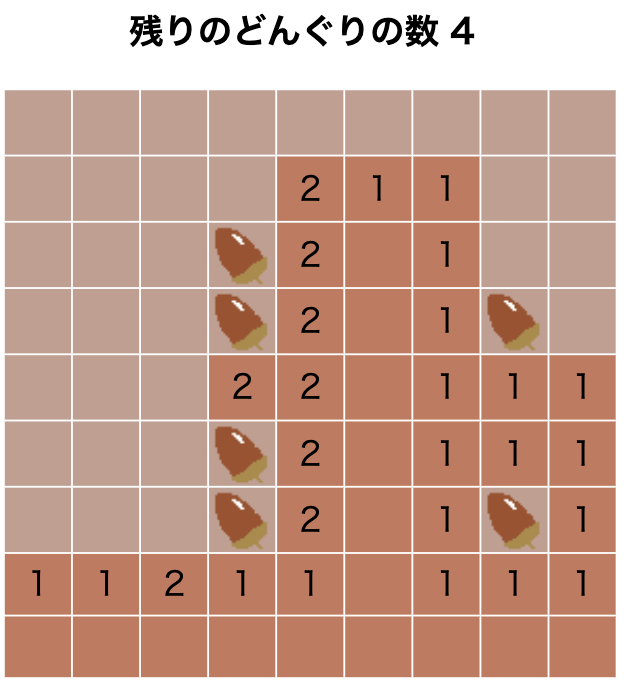
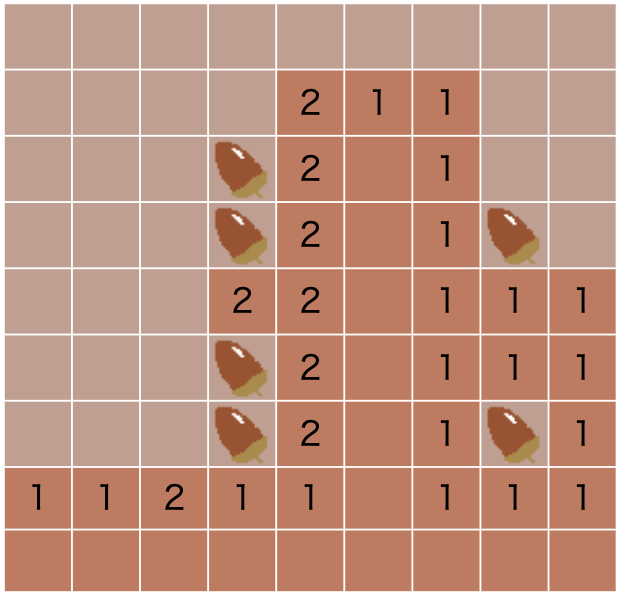
topページ画像の修正

diff --git a/db/seeds.rb b/db/seeds.rb
@@ -10,4 +10,4 @@ Game.create(display_name: 'まるばつゲーム', game_name: 'tictactoe', descr
 Game.create(display_name: '15 Puzzle', game_name: '15puzzle', description: 'バラバラになった数字を、図のように順番に並べ替えてください。', image_url: 'http://localhost:3000/assets/215puzzle-3736d7dc552ff4897ccf29f392826e9e3468b8b0b01835f1ecc3ae8de8f0c7a1.png',)
 Game.create(display_name: 'どんぐり探し', game_name: 'minesweeper', description: 'マインスイーパ風ゲーム
 あなたの畑にリスがどんぐりを埋めてしまったようです。
-優しいあなたは、どんぐりのあるところは避けて、畑を耕してください。', image_url: 'http://localhost:3000/assets/3minesweeper-84d270ae146dc590f48a399dfb267ccdebe212361c28d1ab13aad5f9ebd9fd5d.png',)
+優しいあなたは、どんぐりのあるところは避けて、畑を耕してください。', image_url: 'http://localhost:3000/assets/3minesweeper-ee38ced76ce37cdaf9f8c15b3cac024f4781b86aa85e1e84ddf441fe3a387f83.png',)
